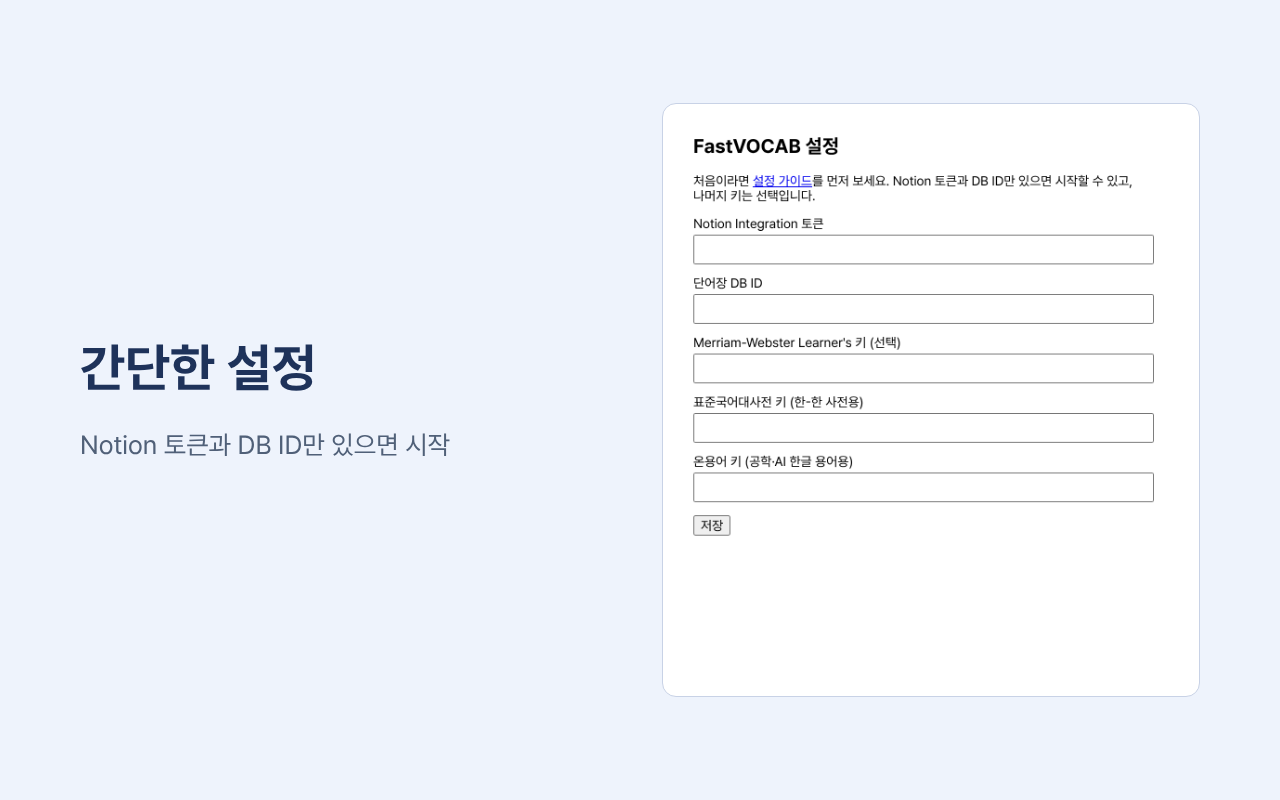
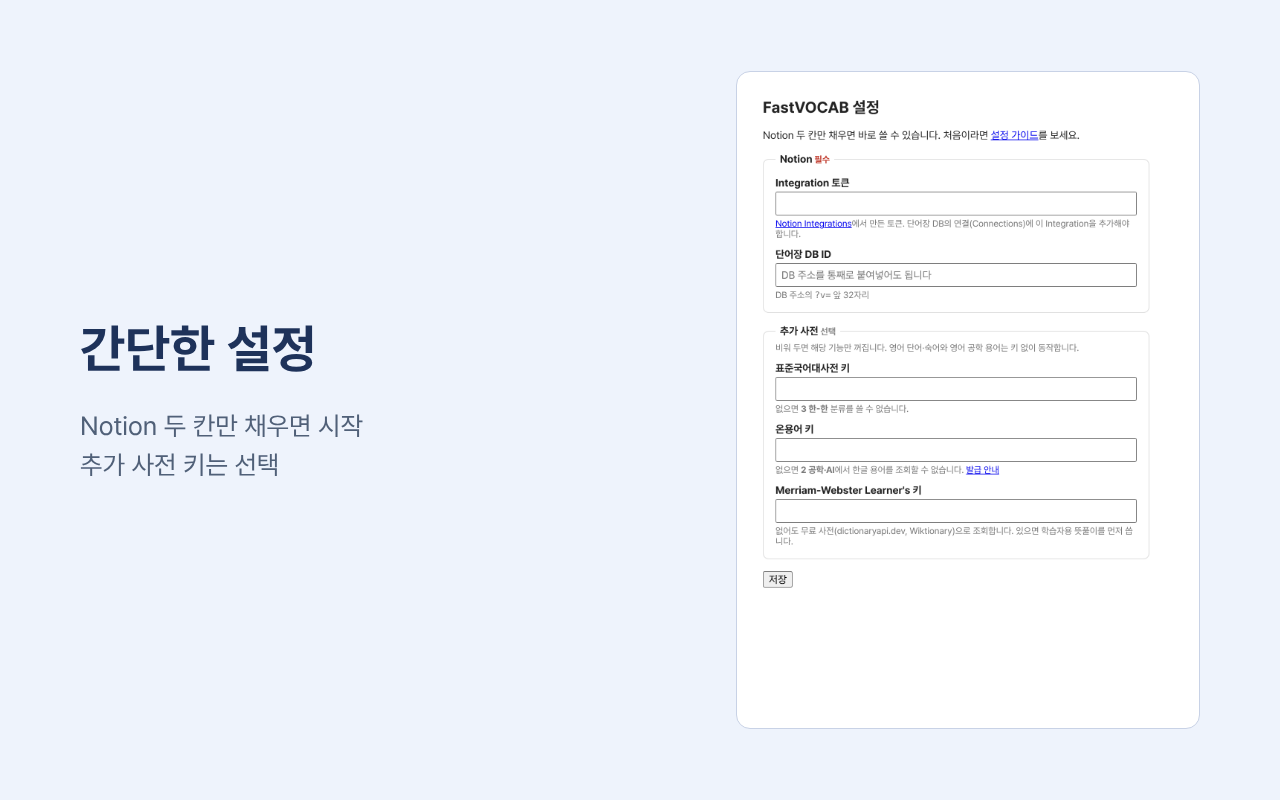
Make optional keys clearly optional and flag key-less categories
- Options: split into required (Notion) and optional dictionaries,
  explain what each missing key disables, accept a full DB URL
- Popup: check settings up front; mark categories whose key is missing
  and show a setup prompt instead of calling the API
- Regenerate options screenshot; update README settings table

Claude-Session: https://claude.ai/code/session_01TgPFiBDQF6ooiASbhXrYQR

diff --git a/extension/options.html b/extension/options.html
@@ -2,19 +2,44 @@
 <meta charset="utf-8">
 <link rel="stylesheet" href="fonts/pretendard.css">
 <title>FastVOCAB 설정</title>
-<style>button,input{font:inherit}body{font:14px Pretendard,-apple-system,"Segoe UI","Malgun Gothic",sans-serif;max-width:480px;margin:24px}label{display:block;margin:12px 0 4px}input{width:100%;padding:6px}</style>
+<style>
+  button,input{font:inherit}
+  body{font:14px Pretendard,-apple-system,"Segoe UI","Malgun Gothic",sans-serif;max-width:520px;margin:24px;color:#222}
+  fieldset{border:1px solid #ddd;border-radius:8px;padding:4px 16px 16px;margin:16px 0}
+  legend{font-weight:700;padding:0 6px}
+  .req legend::after{content:" 필수";color:#c0392b;font-size:12px}
+  .opt legend::after{content:" 선택";color:#888;font-size:12px}
+  label{display:block;margin:12px 0 4px;font-weight:700}
+  input{width:100%;padding:6px;box-sizing:border-box}
+  .help{color:#777;font-size:12px;margin-top:4px}
+  #msg.err{color:#c0392b}
+</style>
 <h2>FastVOCAB 설정</h2>
-<p>처음이라면 <a href="https://github.com/gawonm/FastVOCAB#설정" target="_blank">설정 가이드</a>를 먼저 보세요.
-Notion 토큰과 DB ID만 있으면 시작할 수 있고, 나머지 키는 선택입니다.</p>
-<label>Notion Integration 토큰</label>
-<input id="token" type="password" autocomplete="off">
-<label>단어장 DB ID</label>
-<input id="dbId">
-<label>Merriam-Webster Learner's 키 (선택)</label>
-<input id="mwKey" type="password" autocomplete="off">
-<label>표준국어대사전 키 (한-한 사전용)</label>
-<input id="stdictKey" type="password" autocomplete="off">
-<label>온용어 키 (공학·AI 한글 용어용)</label>
-<input id="ktermKey" type="password" autocomplete="off">
+<p>Notion 두 칸만 채우면 바로 쓸 수 있습니다. 처음이라면 <a href="https://github.com/gawonm/FastVOCAB#notion-단어장-준비-템플릿-복제" target="_blank">설정 가이드</a>를 보세요.</p>
+
+<fieldset class="req">
+  <legend>Notion</legend>
+  <label for="token">Integration 토큰</label>
+  <input id="token" type="password" autocomplete="off">
+  <div class="help"><a href="https://www.notion.so/my-integrations" target="_blank">Notion Integrations</a>에서 만든 토큰. 단어장 DB의 연결(Connections)에 이 Integration을 추가해야 합니다.</div>
+  <label for="dbId">단어장 DB ID</label>
+  <input id="dbId" placeholder="DB 주소를 통째로 붙여넣어도 됩니다">
+  <div class="help">DB 주소의 <code>?v=</code> 앞 32자리</div>
+</fieldset>
+
+<fieldset class="opt">
+  <legend>추가 사전</legend>
+  <div class="help">비워 두면 해당 기능만 꺼집니다. 영어 단어·숙어와 영어 공학 용어는 키 없이 동작합니다.</div>
+  <label for="stdictKey">표준국어대사전 키</label>
+  <input id="stdictKey" type="password" autocomplete="off">
+  <div class="help">없으면 <b>3 한-한</b> 분류를 쓸 수 없습니다.</div>
+  <label for="ktermKey">온용어 키</label>
+  <input id="ktermKey" type="password" autocomplete="off">
+  <div class="help">없으면 <b>2 공학·AI</b>에서 한글 용어를 조회할 수 없습니다. <a href="https://kli.korean.go.kr/term/bbs/indexOpenApiInfo.do" target="_blank">발급 안내</a></div>
+  <label for="mwKey">Merriam-Webster Learner's 키</label>
+  <input id="mwKey" type="password" autocomplete="off">
+  <div class="help">없어도 무료 사전(dictionaryapi.dev, Wiktionary)으로 조회합니다. 있으면 학습자용 뜻풀이를 먼저 씁니다.</div>
+</fieldset>
+
 <p><button id="save">저장</button> <span id="msg"></span></p>
 <script src="options.js"></script>

diff --git a/extension/options.js b/extension/options.js
@@ -3,7 +3,21 @@ const KEYS = ['token', 'dbId', 'mwKey', 'stdictKey', 'ktermKey'];
 
 chrome.storage.local.get(KEYS).then((v) => KEYS.forEach((k) => ($(k).value = v[k] ?? '')));
 
+// DB 주소를 통째로 붙여넣어도 32자리 ID만 뽑는다 (하이픈 포함 UUID 형식도 허용).
+// 주소의 첫 ID가 DB이고 ?v= 뒤는 뷰 ID다. 'FastVOCAB-41af…'처럼 제목 끝 글자가 16진수일 수 있어 경계를 확인한다.
+function toDbId(s) {
+  const uuid = s.match(/(?<![0-9a-f])[0-9a-f]{8}-[0-9a-f]{4}-[0-9a-f]{4}-[0-9a-f]{4}-[0-9a-f]{12}(?![0-9a-f])/i);
+  const hex = s.match(/(?<![0-9a-f])[0-9a-f]{32}(?![0-9a-f])/i);
+  const pick = [uuid, hex].filter(Boolean).sort((a, b) => a.index - b.index)[0];
+  return pick ? pick[0].replace(/-/g, '').toLowerCase() : s;
+}
+
 $('save').onclick = async () => {
-  await chrome.storage.local.set(Object.fromEntries(KEYS.map((k) => [k, $(k).value.trim()])));
-  $('msg').textContent = '저장됨';
+  const v = Object.fromEntries(KEYS.map((k) => [k, $(k).value.trim()]));
+  v.dbId = toDbId(v.dbId);
+  $('dbId').value = v.dbId;
+  await chrome.storage.local.set(v);
+  const missing = !v.token || !v.dbId;
+  $('msg').className = missing ? 'err' : '';
+  $('msg').textContent = missing ? '저장됨 — Notion 토큰과 DB ID는 필수입니다' : '저장됨';
 };

diff --git a/extension/popup.html b/extension/popup.html
@@ -9,6 +9,10 @@
   #tabs button{flex:1;padding:6px 2px;cursor:pointer;border:1px solid #bbb;background:#fafafa}
   #tabs button.hint{outline:2px dashed #2e6bd9}
   #tabs button.on{background:#2e6bd9;color:#fff;border-color:#2e6bd9}
+  #tabs button.locked{color:#999}
+  #tabs button.locked.on{background:#9aa9c4;border-color:#9aa9c4;color:#fff}
+  #tabs .need{display:block;font-size:10px}
+  #card .setup{margin-top:8px;padding:4px 10px;cursor:pointer}
   #card{margin:10px 0;padding:8px;border:1px solid #ddd;border-radius:4px;min-height:64px}
   #card .pos{display:inline-block;font-size:12px;background:#eef;padding:0 6px;border-radius:8px}
   #card .lbl{color:#888;font-size:12px;margin-top:6px}

diff --git a/README.md b/README.md
@@ -22,16 +22,16 @@ Chrome에서 드래그한 단어를 단축키로 조회해서 뜻과 함께 Noti
 새 zip을 받아 같은 폴더에 덮어쓴 뒤 `chrome://extensions`에서 새로고침을 누릅니다. 설정값은 유지됩니다.
 
 ## 설정
-설정은 브라우저마다 따로 저장되므로 PC마다 한 번씩 입력해야 합니다.
+**Notion 두 칸만 채우면 바로 쓸 수 있습니다.** 나머지 키는 선택이며, 비워 두면 해당 기능만 꺼집니다. 키가 없는 분류는 팝업 탭에 "키 필요"로 표시되고, 누르면 조회 대신 설정 안내가 나옵니다.
 
-| 항목 | 필수 | 용도 |
+| 항목 | 필수 | 없으면 |
 |---|---|---|
-| Notion Integration 토큰, 단어장 DB ID | 필수 | 저장 |
-| Merriam-Webster Learner's 키 | 선택 | 영어 뜻 (없으면 dictionaryapi.dev, Wiktionary) |
-| 표준국어대사전 키 | 한-한 사용 시 | 한글 뜻 |
-| 온용어 키 | 한글 공학 용어 사용 시 | 한글 전문용어 |
+| Notion Integration 토큰, 단어장 DB ID | **필수** | 저장할 수 없음 (DB ID 칸에는 DB 주소를 통째로 붙여넣어도 됨) |
+| 표준국어대사전 키 | 선택 | 3 한-한 분류만 꺼짐 |
+| 온용어 키 | 선택 | 2 공학·AI에서 한글 용어만 꺼짐 (영어 용어는 위키피디아로 동작) |
+| Merriam-Webster Learner's 키 | 선택 | 무료 사전(dictionaryapi.dev, Wiktionary)으로 조회 |
 
-키는 `chrome.storage.local`에만 저장되며 레포나 코드에 포함되지 않습니다.
+설정은 브라우저마다 `chrome.storage.local`에 따로 저장되므로 PC마다 한 번씩 입력해야 합니다. 레포나 코드에는 키가 포함되지 않습니다.
 
 ### Notion 단어장 준비 (템플릿 복제)
 1. [FastVOCAB 단어장 템플릿](https://painted-plum-a54.notion.site/41af7cbca87081118028fe9bf5f1b8bf)을 열고 우측 상단 **복제**를 눌러 내 워크스페이스로 가져옵니다.
